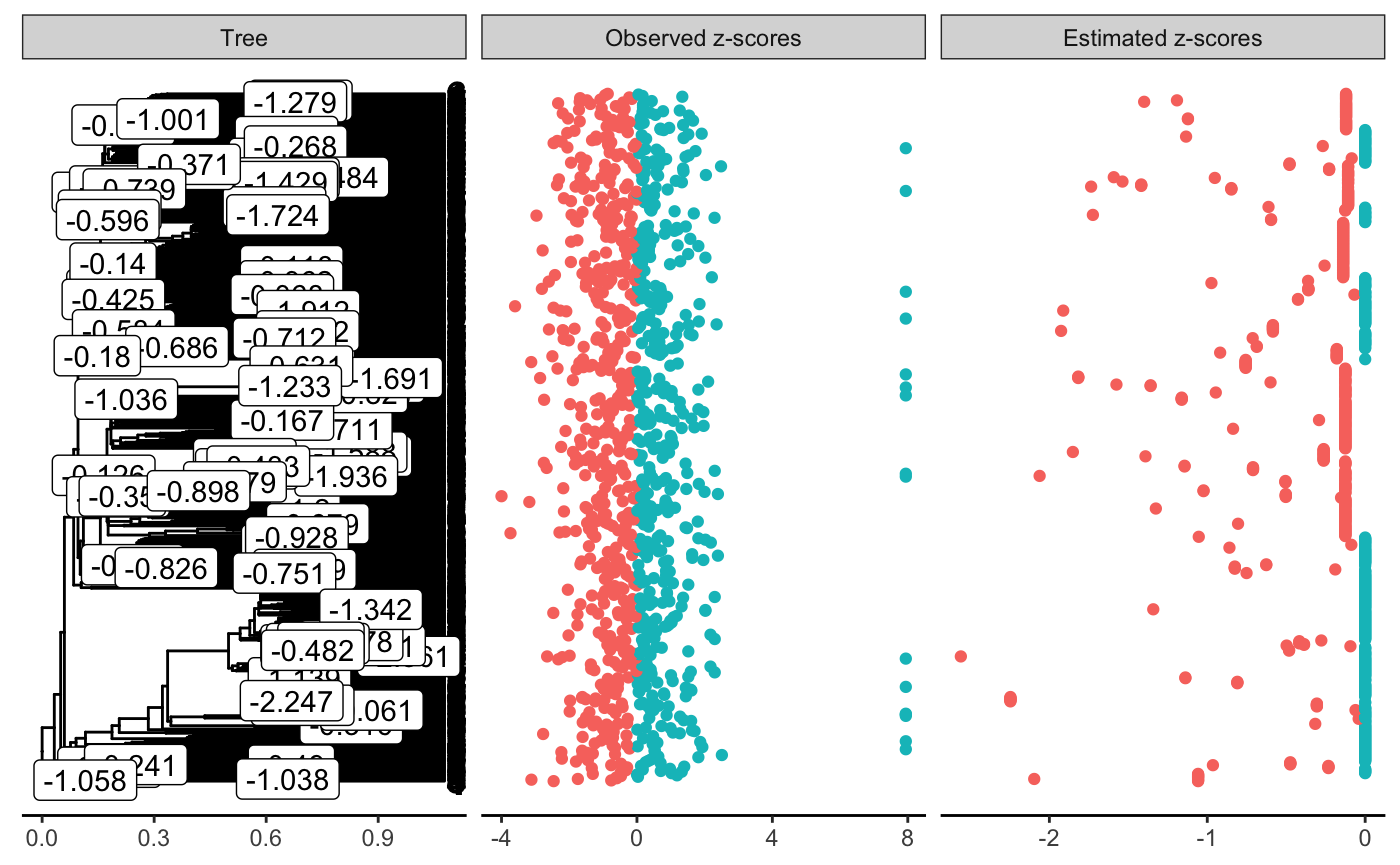
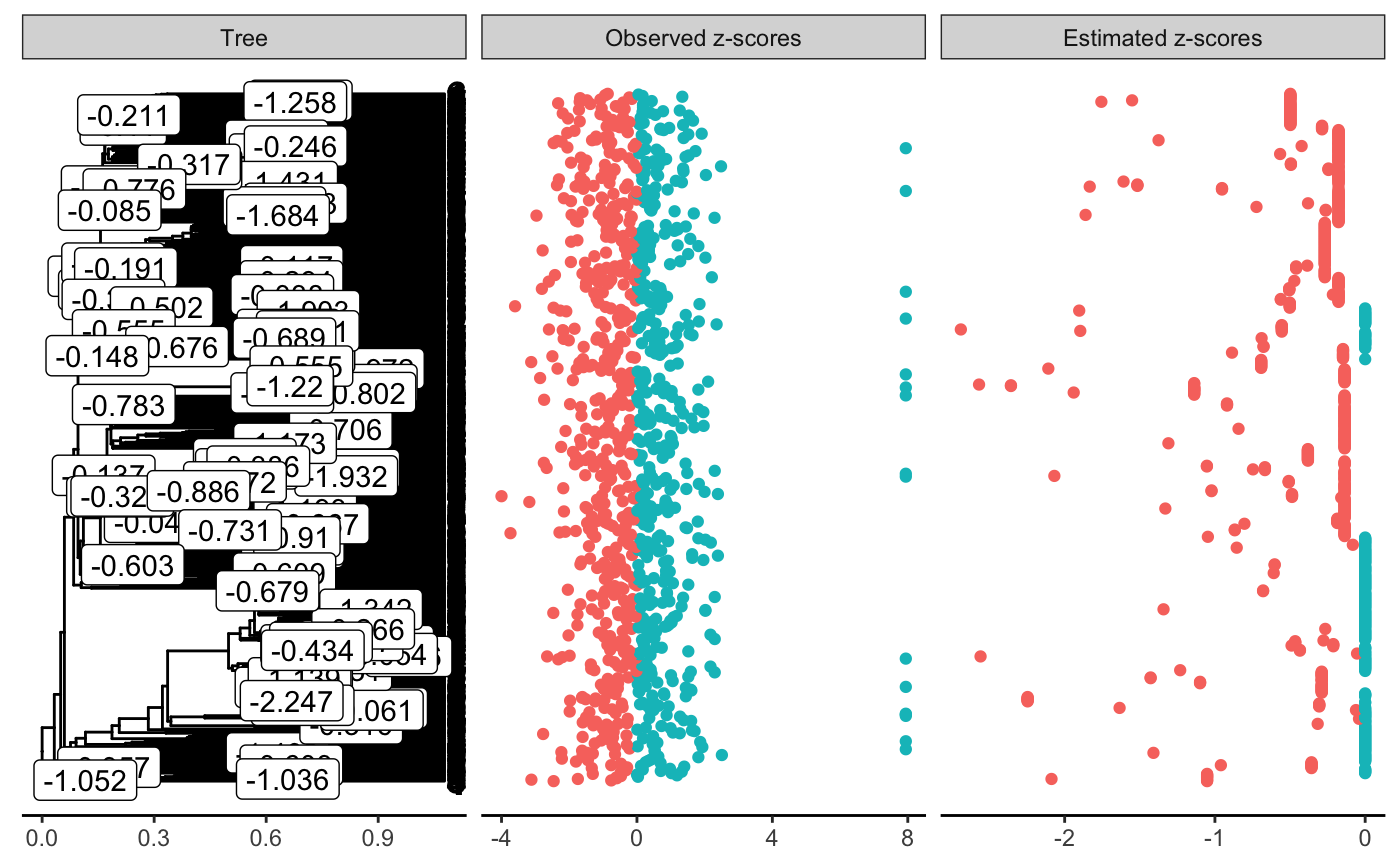
tictoc dans la vignette alcohol

diff --git a/inst/docs/articles/alcohol.html b/inst/docs/articles/alcohol.html
@@ -95,8 +95,9 @@
 
     
     
-<div class="sourceCode" id="cb1"><pre class="sourceCode r"><code class="sourceCode r"><a class="sourceLine" id="cb1-1" data-line-number="1"><span class="kw"><a href="https://rdrr.io/r/base/library.html">library</a></span>(zazou)</a>
-<a class="sourceLine" id="cb1-2" data-line-number="2"><span class="kw"><a href="https://rdrr.io/r/base/Random.html">set.seed</a></span>(<span class="dv">42</span>)</a></code></pre></div>
+<div class="sourceCode" id="cb1"><pre class="sourceCode r"><code class="sourceCode r"><a class="sourceLine" id="cb1-1" data-line-number="1"><span class="kw"><a href="https://rdrr.io/r/base/library.html">library</a></span>(tictoc)</a>
+<a class="sourceLine" id="cb1-2" data-line-number="2"><span class="kw"><a href="https://rdrr.io/r/base/library.html">library</a></span>(zazou)</a>
+<a class="sourceLine" id="cb1-3" data-line-number="3"><span class="kw"><a href="https://rdrr.io/r/base/Random.html">set.seed</a></span>(<span class="dv">42</span>)</a></code></pre></div>
 <div class="sourceCode" id="cb2"><pre class="sourceCode r"><code class="sourceCode r"><a class="sourceLine" id="cb2-1" data-line-number="1"><span class="kw"><a href="https://rdrr.io/r/base/attach.html">attach</a></span>(alcohol)</a></code></pre></div>
 <div id="abundance" class="section level1">
 <h1 class="hasAnchor">
@@ -125,35 +126,57 @@
 <div id="l-bfgs-b" class="section level2">
 <h2 class="hasAnchor">
 <a href="#l-bfgs-b" class="anchor"></a>L-BFGS-B</h2>
-<div class="sourceCode" id="cb6"><pre class="sourceCode r"><code class="sourceCode r"><a class="sourceLine" id="cb6-1" data-line-number="1"><span class="co"># est_lbfgsb &lt;- estimate_shifts2(Delta0 = rep(0, N_branch), zscores = zsco_obs,</span></a>
-<a class="sourceLine" id="cb6-2" data-line-number="2"><span class="co">#                                lambda = 0.1, tree = tree, alpha = 1, </span></a>
-<a class="sourceLine" id="cb6-3" data-line-number="3"><span class="co">#                                method = "L-BFGS-B")</span></a>
-<a class="sourceLine" id="cb6-4" data-line-number="4"><span class="co"># est_lbfgsb</span></a>
-<a class="sourceLine" id="cb6-5" data-line-number="5"><span class="co"># plot(est_lbfgsb)</span></a></code></pre></div>
+<div class="sourceCode" id="cb6"><pre class="sourceCode r"><code class="sourceCode r"><a class="sourceLine" id="cb6-1" data-line-number="1"><span class="kw"><a href="https://rdrr.io/pkg/tictoc/man/tic.html">tic</a></span>()</a>
+<a class="sourceLine" id="cb6-2" data-line-number="2">est_lbfgsb &lt;-<span class="st"> </span><span class="kw"><a href="../reference/estimate_shifts.html">estimate_shifts2</a></span>(<span class="dt">Delta0 =</span> <span class="kw"><a href="https://rdrr.io/r/base/rep.html">rep</a></span>(<span class="dv">0</span>, N_branch), <span class="dt">zscores =</span> zsco_obs,</a>
+<a class="sourceLine" id="cb6-3" data-line-number="3">                               <span class="dt">lambda =</span> <span class="fl">0.1</span>, <span class="dt">tree =</span> tree, <span class="dt">alpha =</span> <span class="dv">1</span>,</a>
+<a class="sourceLine" id="cb6-4" data-line-number="4">                               <span class="dt">method =</span> <span class="st">"L-BFGS-B"</span>)</a>
+<a class="sourceLine" id="cb6-5" data-line-number="5"><span class="kw"><a href="https://rdrr.io/pkg/tictoc/man/tic.html">toc</a></span>()</a>
+<a class="sourceLine" id="cb6-6" data-line-number="6"><span class="co">#&gt; 202.142 sec elapsed</span></a>
+<a class="sourceLine" id="cb6-7" data-line-number="7">est_lbfgsb</a>
+<a class="sourceLine" id="cb6-8" data-line-number="8"><span class="co">#&gt; Tree is not binary with 949 leafs and 1890 branches</span></a>
+<a class="sourceLine" id="cb6-9" data-line-number="9"><span class="co">#&gt; Covariance matrix has been estimated from an OU with alpha = 1 and sigma = 1.6 </span></a>
+<a class="sourceLine" id="cb6-10" data-line-number="10"><span class="co">#&gt; ---</span></a>
+<a class="sourceLine" id="cb6-11" data-line-number="11"><span class="co">#&gt; Optimisation algorithm: L-BFGS-B</span></a>
+<a class="sourceLine" id="cb6-12" data-line-number="12"><span class="co">#&gt; Regularization parameter: lambda = 0.1 </span></a>
+<a class="sourceLine" id="cb6-13" data-line-number="13"><span class="co">#&gt; Objective value: 757.541.</span></a>
+<a class="sourceLine" id="cb6-14" data-line-number="14"><span class="co">#&gt; ---</span></a>
+<a class="sourceLine" id="cb6-15" data-line-number="15"><span class="co">#&gt; Estimated shifts: 0 0 0 0 -0.581 0 0 0 -0.043 -0.399 ...</span></a>
+<a class="sourceLine" id="cb6-16" data-line-number="16"><span class="co">#&gt; 970 shifts have been identified (ie 48.7 % of sparsity)</span></a>
+<a class="sourceLine" id="cb6-17" data-line-number="17"><span class="co">#&gt; A parsimonious solution on the binarized tree would have involve 31 shifts</span></a>
+<a class="sourceLine" id="cb6-18" data-line-number="18"><span class="co">#&gt; ---</span></a>
+<a class="sourceLine" id="cb6-19" data-line-number="19"><span class="co">#&gt; Observed z-scores:  -1.947 -2.059 -1.713 -0.364 -2.328  0.437 -0.153 -0.225   1.34 -1.678 ...</span></a>
+<a class="sourceLine" id="cb6-20" data-line-number="20"><span class="co">#&gt; Estimated z-scores: -3.905 -4.005 -3.709 -2.424 -4.293 -1.782  -2.14 -2.216 -1.782 -3.669 ...</span></a>
+<a class="sourceLine" id="cb6-21" data-line-number="21"><span class="co">#&gt; 922 z-scores have been shifted (ie 2.8 % of sparsity)</span></a>
+<a class="sourceLine" id="cb6-22" data-line-number="22"><span class="kw"><a href="https://rdrr.io/r/graphics/plot.html">plot</a></span>(est_lbfgsb)</a>
+<a class="sourceLine" id="cb6-23" data-line-number="23"><span class="co">#&gt; Warning: Removed 921 rows containing missing values (geom_label).</span></a></code></pre></div>
+<p><img src="alcohol_files/figure-html/lbfgsb-1.png" width="700" style="display: block; margin: auto;"></p>
 </div>
 <div id="shooting" class="section level2">
 <h2 class="hasAnchor">
 <a href="#shooting" class="anchor"></a>Shooting</h2>
-<div class="sourceCode" id="cb7"><pre class="sourceCode r"><code class="sourceCode r"><a class="sourceLine" id="cb7-1" data-line-number="1">est_shooting01 &lt;-<span class="st"> </span><span class="kw"><a href="../reference/estimate_shifts.html">estimate_shifts2</a></span>(<span class="dt">Delta0 =</span> <span class="kw"><a href="https://rdrr.io/r/base/rep.html">rep</a></span>(<span class="dv">0</span>, N_branch), <span class="dt">zscores =</span> zsco_obs,</a>
-<a class="sourceLine" id="cb7-2" data-line-number="2">                                   <span class="dt">lambda =</span> <span class="fl">0.1</span>, <span class="dt">tree =</span> tree, <span class="dt">alpha =</span> <span class="fl">0.1</span>, </a>
-<a class="sourceLine" id="cb7-3" data-line-number="3">                                   <span class="dt">method =</span> <span class="st">"shooting"</span>)</a>
-<a class="sourceLine" id="cb7-4" data-line-number="4">est_shooting01</a>
-<a class="sourceLine" id="cb7-5" data-line-number="5"><span class="co">#&gt; Tree is not binary with 949 leafs and 1890 branches</span></a>
-<a class="sourceLine" id="cb7-6" data-line-number="6"><span class="co">#&gt; Covariance matrix has been estimated from an OU with alpha = 0.1 and sigma = 2.307 </span></a>
-<a class="sourceLine" id="cb7-7" data-line-number="7"><span class="co">#&gt; ---</span></a>
-<a class="sourceLine" id="cb7-8" data-line-number="8"><span class="co">#&gt; Optimisation algorithm: shooting</span></a>
-<a class="sourceLine" id="cb7-9" data-line-number="9"><span class="co">#&gt; Regularization parameter: lambda = 0.1 </span></a>
-<a class="sourceLine" id="cb7-10" data-line-number="10"><span class="co">#&gt; Objective value: 3484.496.</span></a>
-<a class="sourceLine" id="cb7-11" data-line-number="11"><span class="co">#&gt; ---</span></a>
-<a class="sourceLine" id="cb7-12" data-line-number="12"><span class="co">#&gt; Estimated shifts: 0 0 0 0 0 0 0 0 0 0 ...</span></a>
-<a class="sourceLine" id="cb7-13" data-line-number="13"><span class="co">#&gt; 83 shifts have been identified (ie 95.6 % of sparsity)</span></a>
-<a class="sourceLine" id="cb7-14" data-line-number="14"><span class="co">#&gt; A parsimonious solution on the binarized tree would have involve 31 shifts</span></a>
-<a class="sourceLine" id="cb7-15" data-line-number="15"><span class="co">#&gt; ---</span></a>
-<a class="sourceLine" id="cb7-16" data-line-number="16"><span class="co">#&gt; Observed z-scores:  -1.947 -2.059 -1.713 -0.364 -2.328  0.437 -0.153 -0.225   1.34 -1.678 ...</span></a>
-<a class="sourceLine" id="cb7-17" data-line-number="17"><span class="co">#&gt; Estimated z-scores:      0      0 -0.121 -0.121 -0.121 -0.121 -0.121 -0.121 -0.121 -0.121 ...</span></a>
-<a class="sourceLine" id="cb7-18" data-line-number="18"><span class="co">#&gt; 540 z-scores have been shifted (ie 43.1 % of sparsity)</span></a>
-<a class="sourceLine" id="cb7-19" data-line-number="19"><span class="kw"><a href="https://rdrr.io/r/graphics/plot.html">plot</a></span>(est_shooting01)</a>
-<a class="sourceLine" id="cb7-20" data-line-number="20"><span class="co">#&gt; Warning: Removed 1808 rows containing missing values (geom_label).</span></a></code></pre></div>
+<div class="sourceCode" id="cb7"><pre class="sourceCode r"><code class="sourceCode r"><a class="sourceLine" id="cb7-1" data-line-number="1"><span class="kw"><a href="https://rdrr.io/pkg/tictoc/man/tic.html">tic</a></span>()</a>
+<a class="sourceLine" id="cb7-2" data-line-number="2">est_shooting01 &lt;-<span class="st"> </span><span class="kw"><a href="../reference/estimate_shifts.html">estimate_shifts2</a></span>(<span class="dt">Delta0 =</span> <span class="kw"><a href="https://rdrr.io/r/base/rep.html">rep</a></span>(<span class="dv">0</span>, N_branch), <span class="dt">zscores =</span> zsco_obs,</a>
+<a class="sourceLine" id="cb7-3" data-line-number="3">                                   <span class="dt">lambda =</span> <span class="fl">0.1</span>, <span class="dt">tree =</span> tree, <span class="dt">alpha =</span> <span class="fl">0.1</span>, </a>
+<a class="sourceLine" id="cb7-4" data-line-number="4">                                   <span class="dt">method =</span> <span class="st">"shooting2"</span>)</a>
+<a class="sourceLine" id="cb7-5" data-line-number="5"><span class="kw"><a href="https://rdrr.io/pkg/tictoc/man/tic.html">toc</a></span>()</a>
+<a class="sourceLine" id="cb7-6" data-line-number="6"><span class="co">#&gt; 2.119 sec elapsed</span></a>
+<a class="sourceLine" id="cb7-7" data-line-number="7">est_shooting01</a>
+<a class="sourceLine" id="cb7-8" data-line-number="8"><span class="co">#&gt; Tree is not binary with 949 leafs and 1890 branches</span></a>
+<a class="sourceLine" id="cb7-9" data-line-number="9"><span class="co">#&gt; Covariance matrix has been estimated from an OU with alpha = 0.1 and sigma = 2.307 </span></a>
+<a class="sourceLine" id="cb7-10" data-line-number="10"><span class="co">#&gt; ---</span></a>
+<a class="sourceLine" id="cb7-11" data-line-number="11"><span class="co">#&gt; Optimisation algorithm: shooting</span></a>
+<a class="sourceLine" id="cb7-12" data-line-number="12"><span class="co">#&gt; Regularization parameter: lambda = 0.1 </span></a>
+<a class="sourceLine" id="cb7-13" data-line-number="13"><span class="co">#&gt; Objective value: 3490.031.</span></a>
+<a class="sourceLine" id="cb7-14" data-line-number="14"><span class="co">#&gt; ---</span></a>
+<a class="sourceLine" id="cb7-15" data-line-number="15"><span class="co">#&gt; Estimated shifts: 0 0 0 0 0 0 0 0 0 0 ...</span></a>
+<a class="sourceLine" id="cb7-16" data-line-number="16"><span class="co">#&gt; 87 shifts have been identified (ie 95.4 % of sparsity)</span></a>
+<a class="sourceLine" id="cb7-17" data-line-number="17"><span class="co">#&gt; A parsimonious solution on the binarized tree would have involve 31 shifts</span></a>
+<a class="sourceLine" id="cb7-18" data-line-number="18"><span class="co">#&gt; ---</span></a>
+<a class="sourceLine" id="cb7-19" data-line-number="19"><span class="co">#&gt; Observed z-scores:  -1.947 -2.059 -1.713 -0.364 -2.328  0.437 -0.153 -0.225   1.34 -1.678 ...</span></a>
+<a class="sourceLine" id="cb7-20" data-line-number="20"><span class="co">#&gt; Estimated z-scores: -0.177 -0.177 -0.498 -0.498 -0.498 -0.498 -0.498 -0.498 -0.498 -0.498 ...</span></a>
+<a class="sourceLine" id="cb7-21" data-line-number="21"><span class="co">#&gt; 659 z-scores have been shifted (ie 30.6 % of sparsity)</span></a>
+<a class="sourceLine" id="cb7-22" data-line-number="22"><span class="kw"><a href="https://rdrr.io/r/graphics/plot.html">plot</a></span>(est_shooting01)</a>
+<a class="sourceLine" id="cb7-23" data-line-number="23"><span class="co">#&gt; Warning: Removed 1804 rows containing missing values (geom_label).</span></a></code></pre></div>
 <p><img src="alcohol_files/figure-html/shooting01-1.png" width="700" style="display: block; margin: auto;"></p>
 <!-- ```{r shooting05} -->
 <!-- est_shooting05 <- estimate_shifts2(Delta0 = rep(0, N_branch), zscores = zsco_obs, -->

diff --git a/inst/docs/reference/solve_univariate.html b/inst/docs/reference/solve_univariate.html
@@ -138,7 +138,9 @@
 
 <span class='fu'>update_univariate</span>(<span class='no'>beta</span>, <span class='no'>coord</span>, <span class='no'>y</span>, <span class='no'>X</span>, <span class='no'>lambda</span>)
 
-<span class='fu'>solve_multivariate</span>(<span class='no'>beta0</span>, <span class='no'>y</span>, <span class='no'>X</span>, <span class='no'>lambda</span>, <span class='kw'>prob</span> <span class='kw'>=</span> <span class='kw'>NULL</span>)</pre>
+<span class='fu'>solve_multivariate</span>(<span class='no'>beta0</span>, <span class='no'>y</span>, <span class='no'>X</span>, <span class='no'>lambda</span>, <span class='kw'>prob</span> <span class='kw'>=</span> <span class='kw'>NULL</span>)
+
+<span class='fu'>solve_multivariate2</span>(<span class='no'>beta0</span>, <span class='no'>y</span>, <span class='no'>X</span>, <span class='no'>lambda</span>, <span class='kw'>prob</span> <span class='kw'>=</span> <span class='kw'>NULL</span>)</pre>
 
     <h2 class="hasAnchor" id="arguments"><a class="anchor" href="#arguments"></a>Arguments</h2>
     <table class="ref-arguments">
@@ -176,12 +178,22 @@
       <td><p>a vector of probability weights for obtaining the coordinates
 to be sampled</p></td>
     </tr>
+    <tr>
+      <th>beta0</th>
+      <td><p>the initial position of beta.</p></td>
+    </tr>
+    <tr>
+      <th>prob</th>
+      <td><p>a vector of probability weights for obtaining the coordinates
+to be sampled</p></td>
+    </tr>
     </table>
 
     <h2 class="hasAnchor" id="value"><a class="anchor" href="#value"></a>Value</h2>
 
     <p>The scalar solution of the 1D optimization problem</p>
 <p>the new value of beta</p>
+<p>the estimate value of beta</p>
 <p>the estimate value of beta</p>
     <h2 class="hasAnchor" id="details"><a class="anchor" href="#details"></a>Details</h2>
 

diff --git a/inst/docs/articles/comparisons.html b/inst/docs/articles/comparisons.html
@@ -163,7 +163,7 @@
 <a href="#shooting-algorithm" class="anchor"></a>Shooting algorithm</h2>
 <div class="sourceCode" id="cb7"><pre class="sourceCode r"><code class="sourceCode r"><a class="sourceLine" id="cb7-1" data-line-number="1">mthd2 &lt;-<span class="st"> </span><span class="kw"><a href="../reference/estimate_shifts.html">estimate_shifts2</a></span>(<span class="dt">Delta0 =</span> <span class="kw"><a href="https://rdrr.io/r/base/rep.html">rep</a></span>(<span class="dv">0</span>, <span class="dv">8</span>), <span class="dt">zscores =</span> observed_zscores, </a>
 <a class="sourceLine" id="cb7-2" data-line-number="2">                          <span class="dt">lambda =</span> lambda, <span class="dt">tree =</span> tree, <span class="dt">alpha =</span> alpha, </a>
-<a class="sourceLine" id="cb7-3" data-line-number="3">                          <span class="dt">method =</span> <span class="st">"shooting"</span>)</a>
+<a class="sourceLine" id="cb7-3" data-line-number="3">                          <span class="dt">method =</span> <span class="st">"shooting2"</span>)</a>
 <a class="sourceLine" id="cb7-4" data-line-number="4">mthd2</a>
 <a class="sourceLine" id="cb7-5" data-line-number="5"><span class="co">#&gt; Tree is binary with 5 leafs and 8 branches</span></a>
 <a class="sourceLine" id="cb7-6" data-line-number="6"><span class="co">#&gt; Covariance matrix has been estimated from an OU with alpha = 1 and sigma = 1.418 </span></a>

diff --git a/inst/docs/reference/estimate_shifts.html b/inst/docs/reference/estimate_shifts.html
@@ -135,7 +135,7 @@
     <pre class="usage"><span class='fu'>estimate_shifts</span>(<span class='no'>Delta0</span>, <span class='no'>zscores</span>, <span class='no'>incidence_mat</span>, <span class='no'>covar_mat</span>, <span class='no'>lambda</span>)
 
 <span class='fu'>estimate_shifts2</span>(<span class='no'>Delta0</span>, <span class='no'>zscores</span>, <span class='no'>tree</span>, <span class='kw'>lambda</span> <span class='kw'>=</span> <span class='fl'>0</span>, <span class='kw'>alpha</span> <span class='kw'>=</span> <span class='kw'>NULL</span>,
-  <span class='kw'>covar_mat</span> <span class='kw'>=</span> <span class='kw'>NULL</span>, <span class='kw'>method</span> <span class='kw'>=</span> <span class='fu'><a href='https://rdrr.io/r/base/c.html'>c</a></span>(<span class='st'>"L-BFGS-B"</span>, <span class='st'>"shooting"</span>))</pre>
+  <span class='kw'>covar_mat</span> <span class='kw'>=</span> <span class='kw'>NULL</span>, <span class='kw'>method</span> <span class='kw'>=</span> <span class='fu'><a href='https://rdrr.io/r/base/c.html'>c</a></span>(<span class='st'>"L-BFGS-B"</span>, <span class='st'>"shooting"</span>, <span class='st'>"shooting2"</span>))</pre>
 
     <h2 class="hasAnchor" id="arguments"><a class="anchor" href="#arguments"></a>Arguments</h2>
     <table class="ref-arguments">

diff --git a/inst/docs/reference/index.html b/inst/docs/reference/index.html
@@ -270,7 +270,7 @@
       </tr><tr>
         
         <td>
-          <p><code><a href="solve_univariate.html">solve_univariate()</a></code> <code><a href="solve_univariate.html">update_univariate()</a></code> <code><a href="solve_univariate.html">solve_multivariate()</a></code> </p>
+          <p><code><a href="solve_univariate.html">solve_univariate()</a></code> <code><a href="solve_univariate.html">update_univariate()</a></code> <code><a href="solve_univariate.html">solve_multivariate()</a></code> <code><a href="solve_univariate.html">solve_multivariate2()</a></code> </p>
         </td>
         <td><p>Solve unidirectional constrained problem</p></td>
       </tr>
